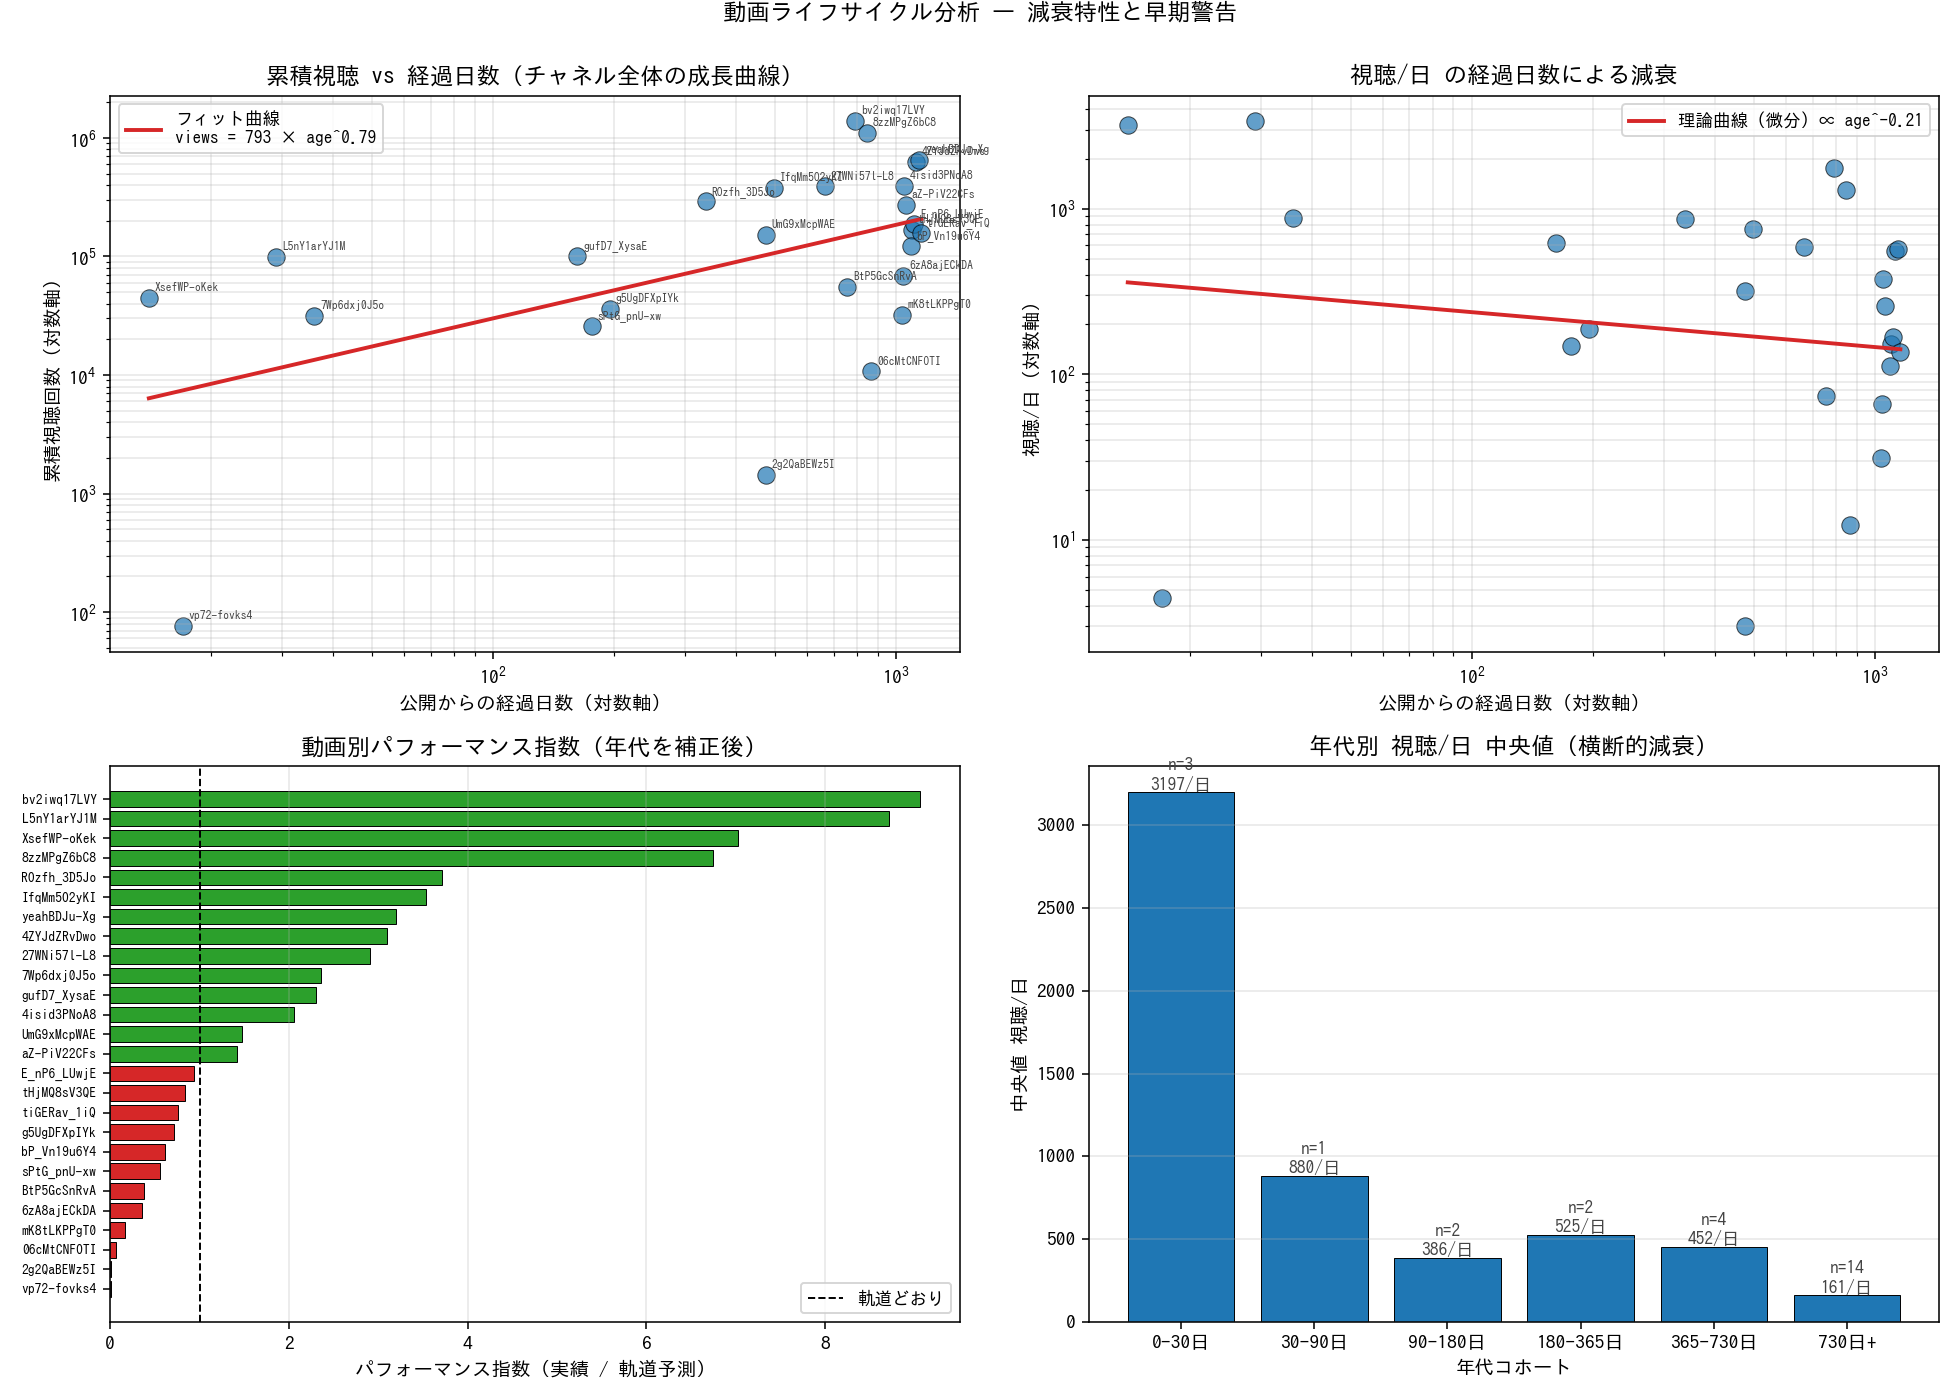
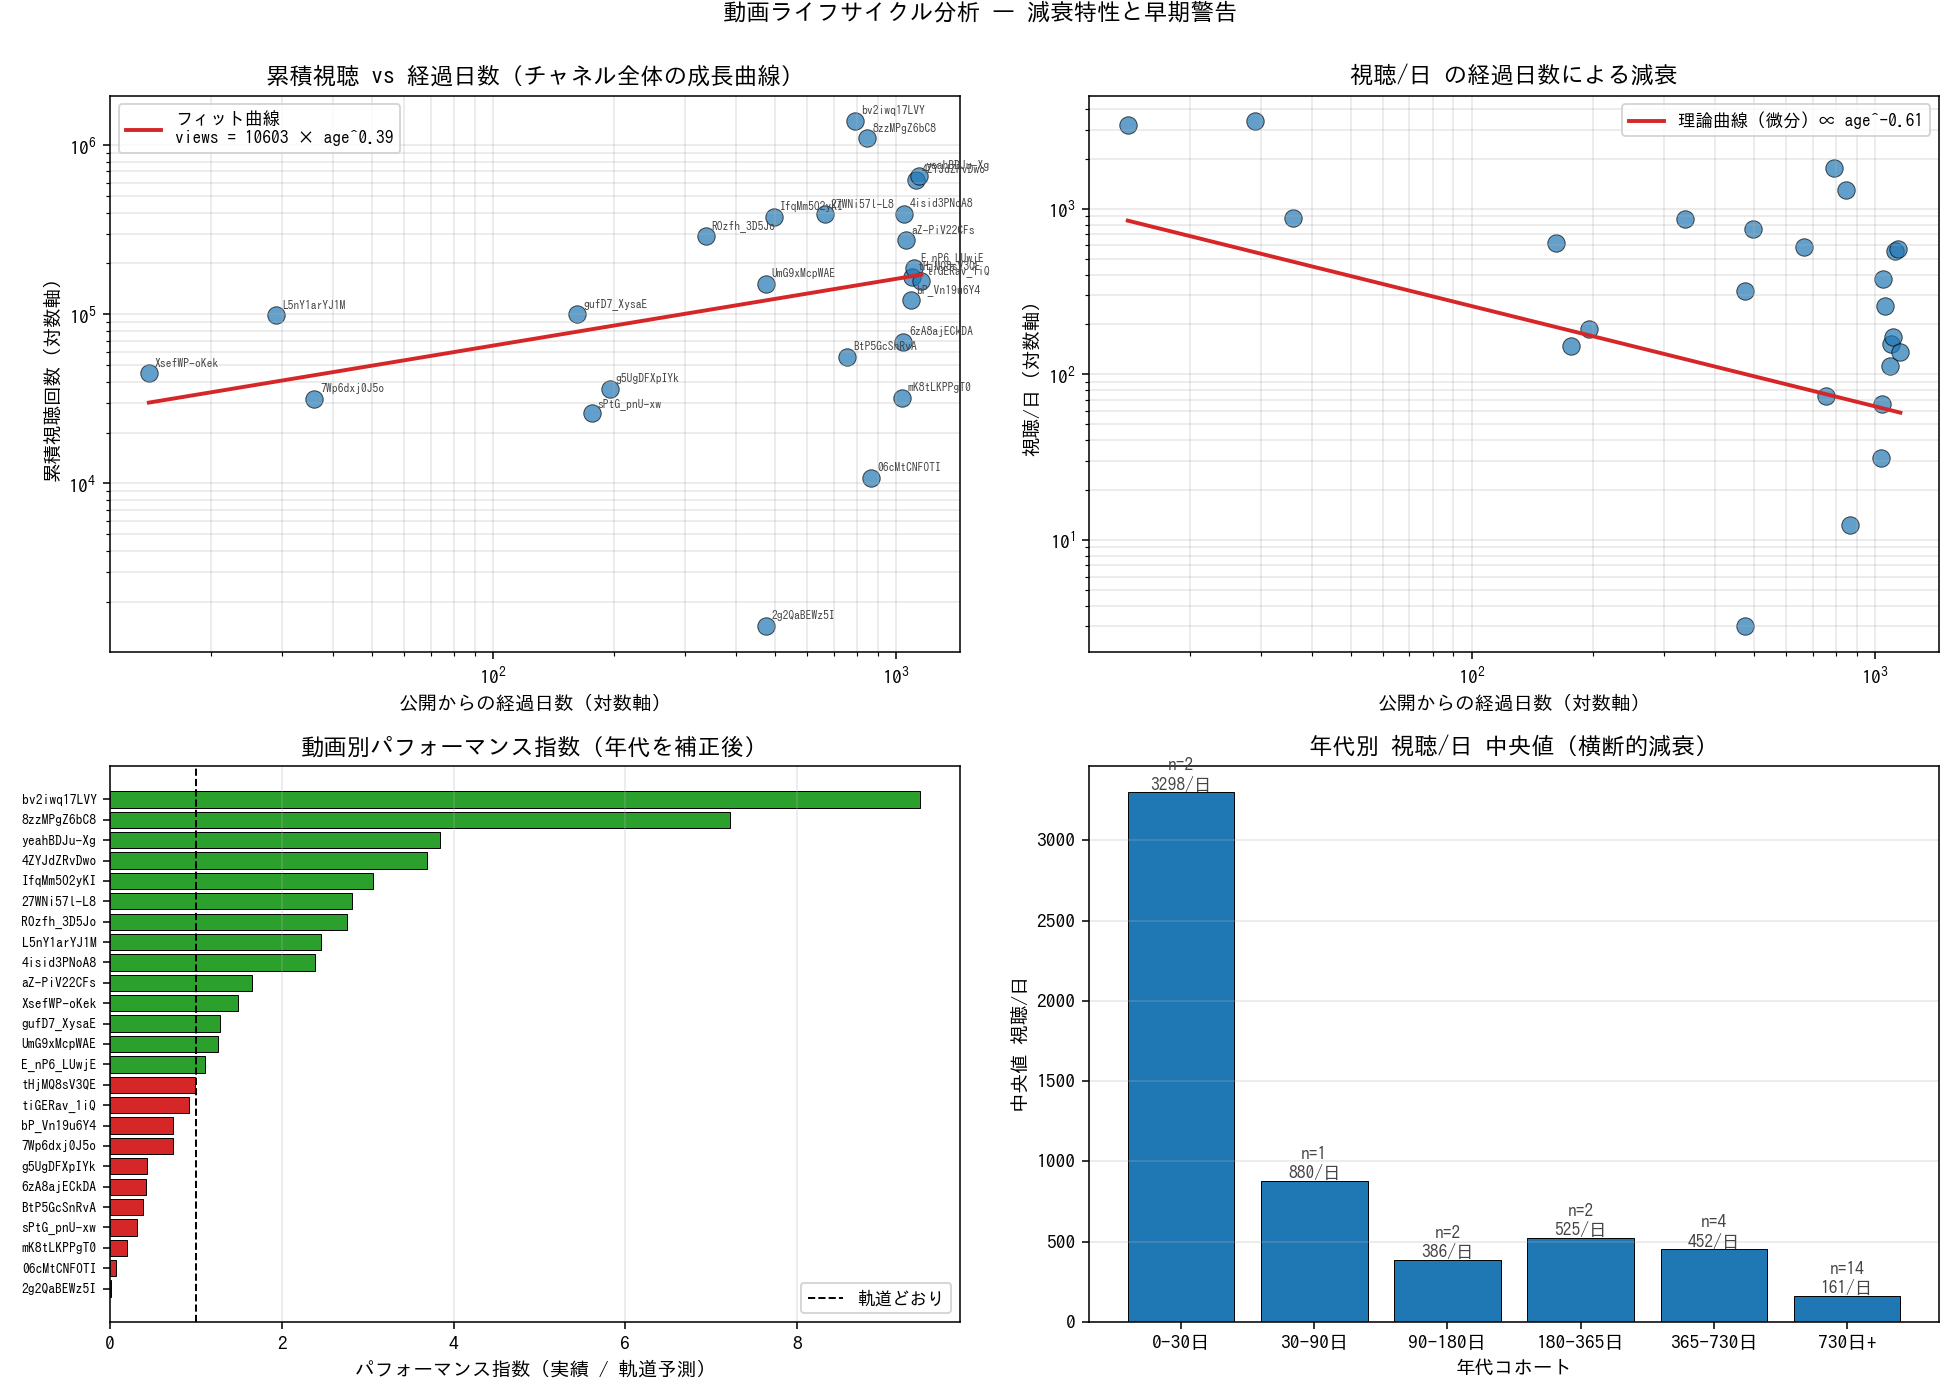
analysis: centralize exclusion list and add vp72-fovks4
Adds analysis/_exclusions.py exporting EXCLUDED_VIDEO_IDS dict so
all analysis scripts share one source of truth for which videos
to exclude. Replaces inline EXC sets across 8 scripts.

New exclusion: vp72-fovks4 (100万人懺悔, 17 days / 76 views, was
unpublished shortly after release per user confirmation).

The 泥酔 video (2g2QaBEWz5I) is intentionally kept (still public,
just niche).

Re-runs all affected analyses:
  - publishing_cadence: 2026 perf shifted from 10.73 (4 vids) to
    16.53 (3 vids), other metrics minor changes
  - lifecycle, channel_lifespan, timing, endscreen, collab_pairs,
    premium, top_vs_bottom: updated outputs

https://claude.ai/code/session_01RwavH72gHFtHuMchfHJCYQ

diff --git a/analysis/_exclusions.py b/analysis/_exclusions.py
@@ -1,0 +1,16 @@
+"""Centralized list of videos to exclude from channel-level analysis.
+
+These are videos that don't represent normal channel performance:
+  - Re-upload failures
+  - Videos unpublished shortly after release
+  - Other anomalies that distort aggregate metrics
+
+Import from individual analysis scripts:
+    from _exclusions import EXCLUDED_VIDEO_IDS
+"""
+
+EXCLUDED_VIDEO_IDS = {
+    "7FyovEYud1A": "再アップ失敗（subs=-1, 925 views, 重複タイトル）",
+    "cbEDMw-fPWc": "公開後に非公開化（5 views / 337 日, 重複タイトル）",
+    "vp72-fovks4": "公開後に非公開化（17 日, 76 views, perf 0.01x）",
+}

diff --git a/analysis/top_vs_bottom.py b/analysis/top_vs_bottom.py
@@ -36,10 +36,7 @@ an["impressions_per_day"] = an["impressions"] / an["age_days"]
 
 
 # ---- Apply exclusions ----------------------------------------------
-EXCLUDED = {
-    "7FyovEYud1A": "再アップ失敗（subs=-1, 925 views, 重複タイトル）",
-    "cbEDMw-fPWc": "公開後に非公開化と推定（5 views / 337 日, 重複タイトル）",
-}
+from _exclusions import EXCLUDED_VIDEO_IDS as EXCLUDED
 
 df = an[(an["format"] == "Long") & (an["views"] > 0)].copy()
 df = df[~df["video_id"].isin(EXCLUDED.keys())]

diff --git a/analysis/endscreen_analysis.py b/analysis/endscreen_analysis.py
@@ -34,7 +34,7 @@ asof = pd.Timestamp("2026-04-25")
 an["age_days"] = (asof - an["published_at"]).dt.days.clip(lower=1)
 an["length_min"] = an["length_sec"] / 60
 
-EXC = {"7FyovEYud1A", "cbEDMw-fPWc"}
+from _exclusions import EXCLUDED_VIDEO_IDS as EXC
 df = an[(an["format"] == "Long") & (an["views"] > 0) & (an["age_days"] >= 180)].copy()
 df = df[~df["video_id"].isin(EXC)]
 df = df.dropna(subset=["endscreen_ctr", "endscreen_impressions",

diff --git a/analysis/premium_analysis.py b/analysis/premium_analysis.py
@@ -30,7 +30,7 @@ asof = pd.Timestamp("2026-04-25")
 an["age_days"] = (asof - an["published_at"]).dt.days.clip(lower=1)
 an["length_min"] = an["length_sec"] / 60
 
-EXC = {"7FyovEYud1A", "cbEDMw-fPWc"}
+from _exclusions import EXCLUDED_VIDEO_IDS as EXC
 df = an[(an["format"] == "Long") & (an["views"] > 0)].copy()
 df = df[~df["video_id"].isin(EXC)]
 df = df.dropna(subset=["premium_jpy", "premium_views", "est_revenue_jpy"])

diff --git a/analysis/channel_lifespan.py b/analysis/channel_lifespan.py
@@ -34,7 +34,7 @@ asof = pd.Timestamp("2026-04-25")
 an["age_days"] = (asof - an["published_at"]).dt.days.clip(lower=1)
 an["length_min"] = an["length_sec"] / 60
 
-EXC = {"7FyovEYud1A", "cbEDMw-fPWc"}
+from _exclusions import EXCLUDED_VIDEO_IDS as EXC
 df = an[(an["format"] == "Long") & (an["views"] > 0)].copy()
 df = df[~df["video_id"].isin(EXC)].dropna(subset=["est_revenue_jpy"])
 

diff --git a/analysis/publishing_cadence.py b/analysis/publishing_cadence.py
@@ -39,7 +39,7 @@ c = np.exp(a_)
 an["expected_views"] = c * (an["age_days"] ** k)
 an["performance_index"] = an["views"] / an["expected_views"]
 
-EXC = {"7FyovEYud1A", "cbEDMw-fPWc"}
+from _exclusions import EXCLUDED_VIDEO_IDS as EXC
 df = an[(an["format"] == "Long") & (an["views"] > 0)].copy()
 df = df[~df["video_id"].isin(EXC)].sort_values("published_at").reset_index(drop=True)
 

diff --git a/analysis/lifecycle_analysis.py b/analysis/lifecycle_analysis.py
@@ -32,7 +32,7 @@ an["age_days"] = (asof - an["published_at"]).dt.days.clip(lower=1)
 an["length_min"] = an["length_sec"] / 60
 an["views_per_day"] = an["views"] / an["age_days"]
 
-EXC = {"7FyovEYud1A", "cbEDMw-fPWc"}
+from _exclusions import EXCLUDED_VIDEO_IDS as EXC
 df = an[(an["format"] == "Long") & (an["views"] > 0)].copy()
 df = df[~df["video_id"].isin(EXC)]
 

diff --git a/analysis/collab_pair_analysis.py b/analysis/collab_pair_analysis.py
@@ -81,7 +81,7 @@ c = np.exp(a_)
 an["expected_views"] = c * (an["age_days"] ** k)
 an["performance_index"] = an["views"] / an["expected_views"]
 
-EXC = {"7FyovEYud1A", "cbEDMw-fPWc"}
+from _exclusions import EXCLUDED_VIDEO_IDS as EXC
 df = an[(an["format"] == "Long") & (an["views"] > 0)].copy()
 df = df[~df["video_id"].isin(EXC)]
 

diff --git a/analysis/timing_analysis.py b/analysis/timing_analysis.py
@@ -41,7 +41,7 @@ c = np.exp(a_)
 an["expected_views"] = c * (an["age_days"] ** k)
 an["performance_index"] = an["views"] / an["expected_views"]
 
-EXC = {"7FyovEYud1A", "cbEDMw-fPWc"}
+from _exclusions import EXCLUDED_VIDEO_IDS as EXC
 df = an[(an["format"] == "Long") & (an["views"] > 0)].copy()
 df = df[~df["video_id"].isin(EXC)]
 
